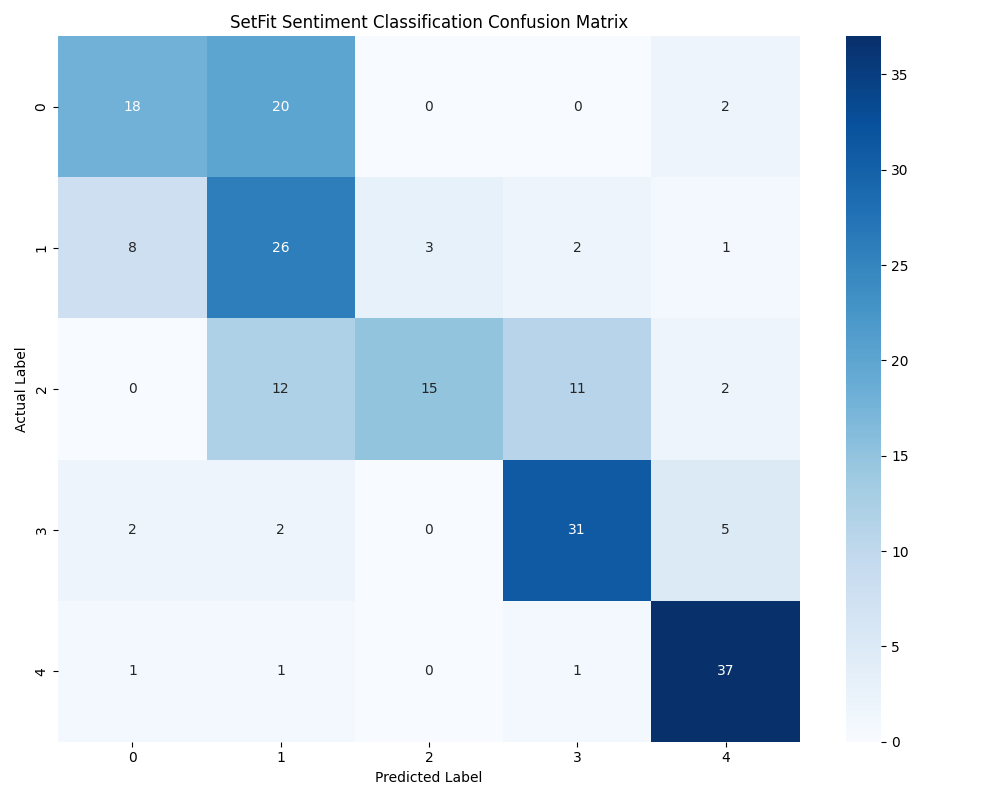
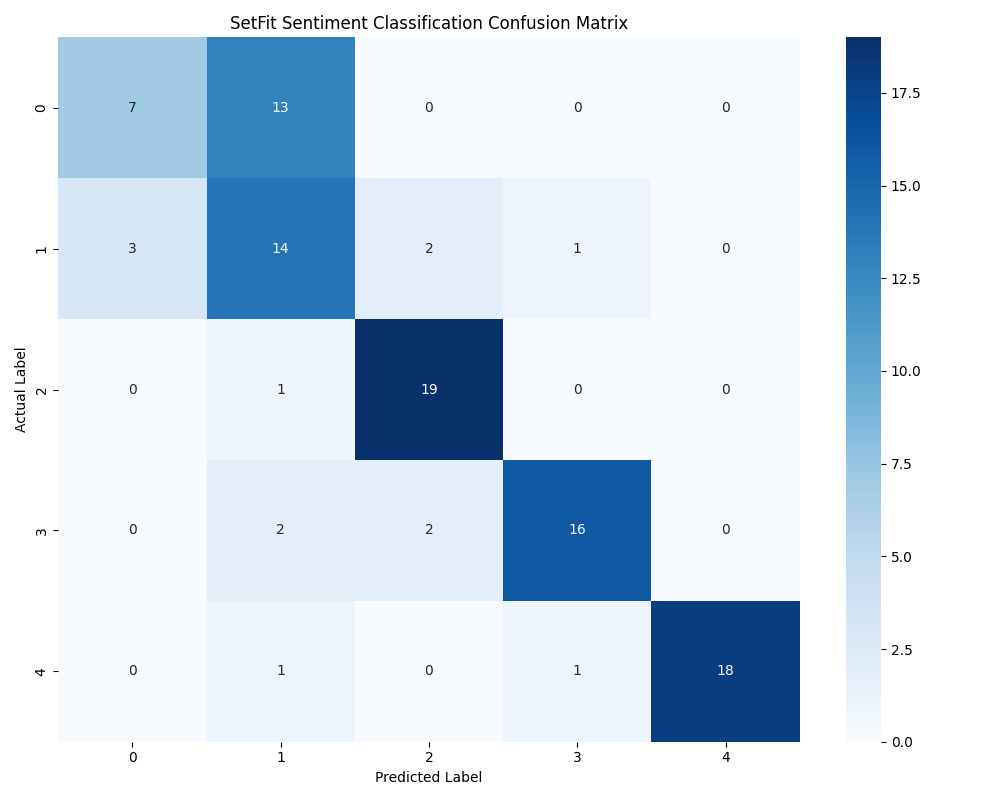
new version

diff --git a/scripts/balance_data.py b/scripts/balance_data.py
@@ -1,0 +1,97 @@
+import pandas as pd
+import numpy as np
+import os
+import sys
+
+def balance_dataset(input_file, output_file, target_count=50):
+    """
+    Reads a CSV, balances classes to a specific count, and saves the result.
+    """
+    print(f"--- Processing {input_file} ---")
+    
+    # 1. Load Data
+    if not os.path.exists(input_file):
+        print(f"Error: The file '{input_file}' was not found in the current directory.")
+        return
+
+    try:
+        # Using engine='python' to handle complex quoting if necessary, though default is usually fine
+        df = pd.read_csv(input_file)
+    except Exception as e:
+        print(f"Error reading CSV: {e}")
+        return
+
+    # Basic validation
+    if 'label' not in df.columns or 'text' not in df.columns:
+        print("Error: Input CSV must contain 'text' and 'label' columns.")
+        print(f"Found columns: {list(df.columns)}")
+        return
+
+    # 2. Pre-processing
+    initial_count = len(df)
+    
+    # Remove rows with empty text or labels
+    df = df.dropna(subset=['text', 'label'])
+    
+    # Ensure text is string and strip whitespace
+    df['text'] = df['text'].astype(str).str.strip()
+    
+    # Remove duplicates to ensure "distinctive" data
+    df = df.drop_duplicates(subset=['text'])
+    
+    dedup_count = len(df)
+    print(f"Original rows: {initial_count}")
+    print(f"After removing duplicates/NAs: {dedup_count}")
+    print("-" * 30)
+
+    # 3. Balancing Logic
+    balanced_dfs = []
+    
+    # Get unique labels
+    labels = df['label'].unique()
+    labels.sort() # Sort for consistent output
+    
+    print(f"Found {len(labels)} classes: {labels}")
+    print("-" * 30)
+    print(f"{'Label':<10} | {'Available':<10} | {'Action':<15}")
+    print("-" * 30)
+
+    for label in labels:
+        class_subset = df[df['label'] == label]
+        count = len(class_subset)
+        
+        if count >= target_count:
+            # Downsample: Randomly select target_count
+            # We use a fixed random_state for reproducibility
+            action = "Downsampling"
+            sampled = class_subset.sample(n=target_count, random_state=42)
+        else:
+            # Upsample: Sample with replacement to fill the gap
+            # This ensures we hit exactly 50, even if we have to repeat some distinctive examples
+            action = f"Upsampling (x{target_count/count:.1f})"
+            sampled = class_subset.sample(n=target_count, replace=True, random_state=42)
+            
+        print(f"{str(label):<10} | {count:<10} | {action:<15}")
+        balanced_dfs.append(sampled)
+
+    # 4. Combine and Shuffle
+    final_df = pd.concat(balanced_dfs)
+    
+    # Shuffle the final dataset so classes aren't clustered
+    final_df = final_df.sample(frac=1, random_state=42).reset_index(drop=True)
+
+    # 5. Save
+    try:
+        final_df.to_csv(output_file, index=False)
+        print("-" * 30)
+        print(f"Success! Balanced dataset saved to: {output_file}")
+        print(f"Total rows: {len(final_df)}")
+        print(f"Examples per class: {target_count}")
+    except Exception as e:
+        print(f"Error saving file: {e}")
+
+if __name__ == "__main__":
+    INPUT_FILENAME = 'data/balanced_data_medium.csv'
+    OUTPUT_FILENAME = 'data/balanced_data_setfit_50.csv'
+    
+    balance_dataset(INPUT_FILENAME, OUTPUT_FILENAME)

diff --git a/scripts/sentiment_training.py b/scripts/sentiment_training.py
@@ -18,15 +18,15 @@ from datasets import Dataset
 from sentence_transformers.losses import CosineSimilarityLoss
 
 # Configuration
-TRAIN_DATA_PATH = "data/setfit_training_data.csv"
-TEST_DATA_PATH = "data/balanced_data_medium.csv"
+TRAIN_DATA_PATH = "data/training.csv"
+TEST_DATA_PATH = "data/test.csv"
 MODEL_OUTPUT_DIR = "models/setfit_sentiment_model_safetensors"
 CONFUSION_MATRIX_OUTPUT_DIR = "output/model_visualizations"
-#BASE_MODEL_NAME = "BAAI/bge-base-en-v1.5"
+BASE_MODEL_NAME = "BAAI/bge-base-en-v1.5"
 #BASE_MODEL_NAME = "sentence-transformers/all-MiniLM-L6-v2"
-BASE_MODEL_NAME = "sentence-transformers/all-mpnet-base-v2"
+#BASE_MODEL_NAME = "sentence-transformers/all-mpnet-base-v2"
 BATCH_SIZE = 16
-NUM_EPOCHS = (3, 32)
+NUM_EPOCHS = (2, 32)
 
 def enhance_emotional_features(text):
     """Preserve and normalize emotional language features for better embedding."""
@@ -137,10 +137,10 @@ def main():
         eval_strategy="epoch",
         save_strategy="epoch",
         load_best_model_at_end=True,
-        num_iterations=40,
+        num_iterations=20,
         loss=CosineSimilarityLoss,
-        metric_for_best_model="accuracy",
-        greater_is_better=True,
+        metric_for_best_model="embedding_loss",
+        greater_is_better=False,
         save_total_limit=1,
     )
 
